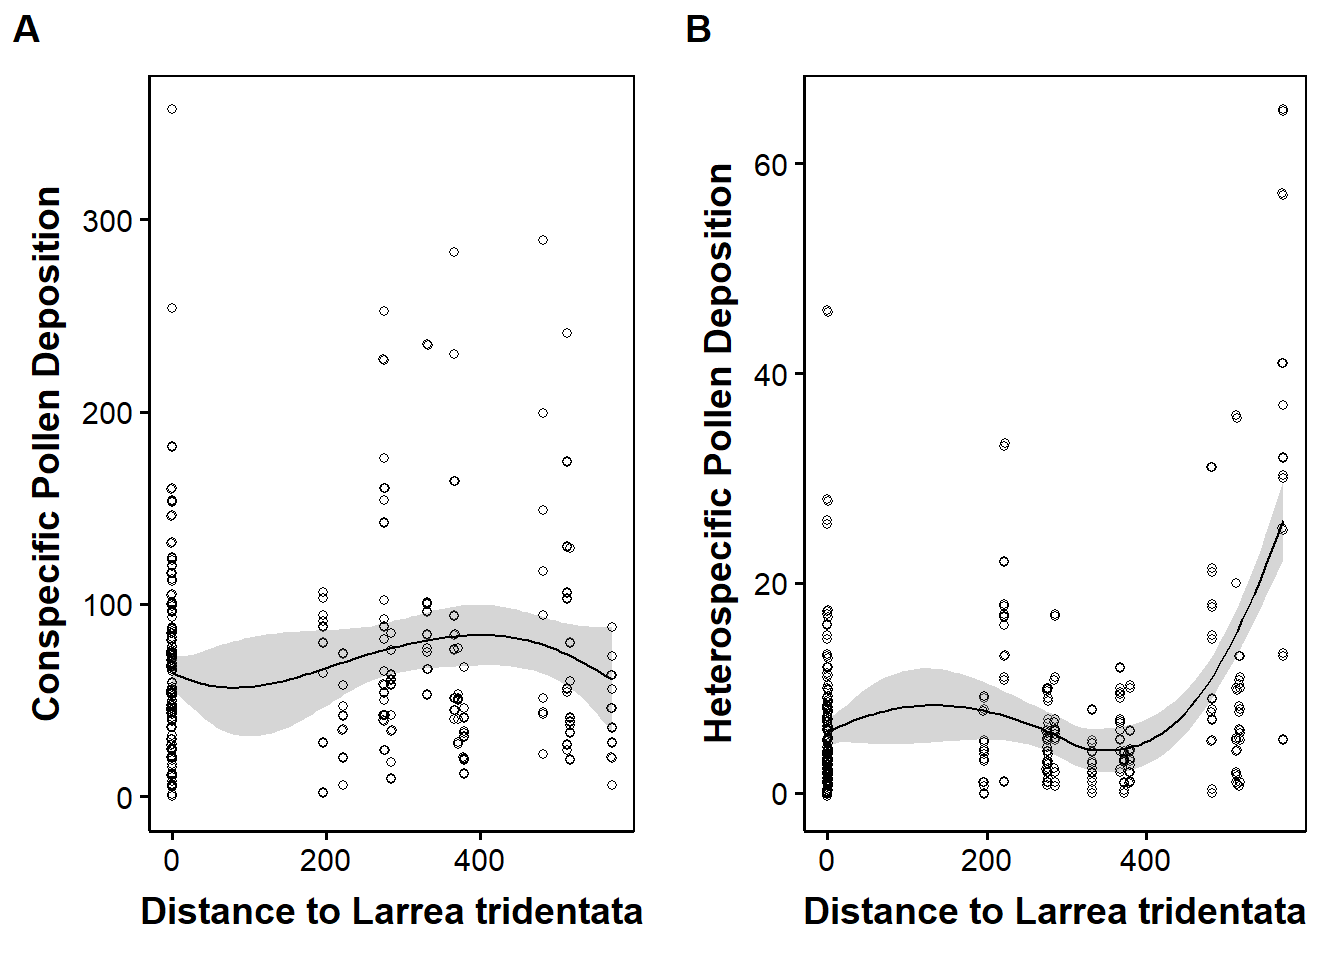
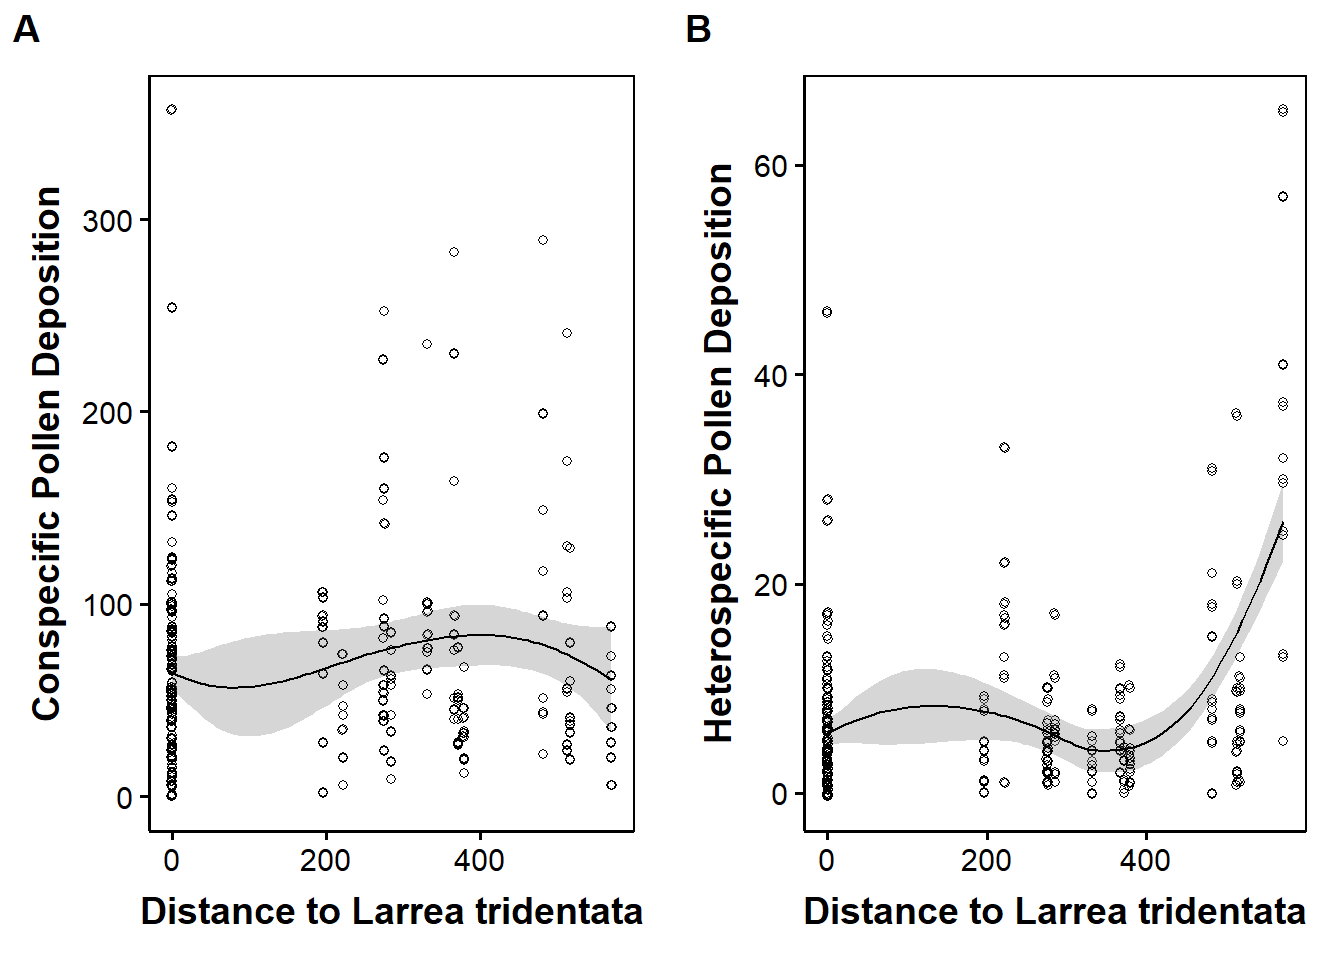
reknit stats

diff --git a/index.html b/index.html
@@ -1660,7 +1660,7 @@ mFullPQ &lt;- MASS::glmmPQL(total.visits~flowering * rtu * treatment + flowers.p
 ## flowering:rtu                  67.1419  5  4.026e-13 ***
 ## ---
 ## Signif. codes:  0 &#39;***&#39; 0.001 &#39;**&#39; 0.01 &#39;*&#39; 0.05 &#39;.&#39; 0.1 &#39; &#39; 1</code></pre>
-<pre class="r"><code>mPt &lt;- MASS::glmmPQL(total.visits~ flowering * rtu +  flowering + flowers.pot + het.annual.floral.density + offset(log(dec.Length)), random = ~1|repID, family=&quot;quasipoisson&quot;, data = byrtu)</code></pre>
+<pre class="r"><code>mPt &lt;- MASS::glmmPQL(total.visits~ flowering * rtu +  treatment + flowers.pot + het.annual.floral.density + offset(log(dec.Length)), random = ~1|repID, family=&quot;quasipoisson&quot;, data = byrtu)</code></pre>
 <pre><code>## iteration 1</code></pre>
 <pre><code>## iteration 2</code></pre>
 <pre><code>## iteration 3</code></pre>
@@ -1680,56 +1680,59 @@ mFullPQ &lt;- MASS::glmmPQL(total.visits~flowering * rtu * treatment + flowers.p
 ## Random effects:
 ##  Formula: ~1 | repID
 ##         (Intercept) Residual
-## StdDev:   0.5154108 1.431395
+## StdDev:   0.4850369 1.447393
 ## 
 ## Variance function:
 ##  Structure: fixed weights
 ##  Formula: ~invwt 
-## Fixed effects: total.visits ~ flowering * rtu + flowering + flowers.pot + het.annual.floral.density +      offset(log(dec.Length)) 
+## Fixed effects: total.visits ~ flowering * rtu + treatment + flowers.pot + het.annual.floral.density +      offset(log(dec.Length)) 
 ##                                 Value Std.Error   DF   t-value p-value
-## (Intercept)                 -1.754374      0.31 1251 -5.640421  0.0000
-## floweringbloom              -1.622320      0.49 1251 -3.338926  0.0009
-## rtubombylid                 -0.251314      0.32 1251 -0.775084  0.4384
-## rtuhoneybee                 -2.197225      0.68 1251 -3.239789  0.0012
-## rtulep                      -3.113515      1.04 1251 -2.994742  0.0028
-## rtuother                     0.725937      0.26 1251  2.778710  0.0055
-## rtusyrphid                   1.986351      0.23 1251  8.685220  0.0000
-## flowers.pot                  0.053237      0.02 1251  2.427039  0.0154
-## het.annual.floral.density    0.036065      0.02 1251  2.235929  0.0255
-## floweringbloom:rtubombylid   1.254617      0.60 1251  2.084411  0.0373
-## floweringbloom:rtuhoneybee -22.705274  67240.22 1251 -0.000338  0.9997
-## floweringbloom:rtulep        3.660059      1.17 1251  3.117915  0.0019
-## floweringbloom:rtuother      1.510897      0.53 1251  2.873290  0.0041
-## floweringbloom:rtusyrphid   -1.439807      0.59 1251 -2.435786  0.0150
+## (Intercept)                 -1.588635      0.32 1251 -4.966677  0.0000
+## floweringbloom              -1.620187      0.49 1251 -3.297275  0.0010
+## rtubombylid                 -0.251314      0.33 1251 -0.766237  0.4437
+## rtuhoneybee                 -2.197225      0.69 1251 -3.202810  0.0014
+## rtulep                      -3.113515      1.05 1251 -2.960560  0.0031
+## rtuother                     0.725937      0.26 1251  2.746994  0.0061
+## rtusyrphid                   1.986351      0.23 1251  8.586087  0.0000
+## treatmentshrub              -0.314510      0.15  120 -2.147471  0.0338
+## flowers.pot                  0.052119      0.02 1251  2.386102  0.0172
+## het.annual.floral.density    0.035599      0.02 1251  2.231026  0.0259
+## floweringbloom:rtubombylid   1.254617      0.61 1251  2.060619  0.0395
+## floweringbloom:rtuhoneybee -22.688568  67450.81 1251 -0.000336  0.9997
+## floweringbloom:rtulep        3.660059      1.19 1251  3.082328  0.0021
+## floweringbloom:rtuother      1.510897      0.53 1251  2.840494  0.0046
+## floweringbloom:rtusyrphid   -1.439807      0.60 1251 -2.407984  0.0162
 ##  Correlation: 
 ##                            (Intr) flwrng rtbmby rthnyb rtulep rtuthr
-## floweringbloom             -0.268                                   
-## rtubombylid                -0.456  0.292                            
-## rtuhoneybee                -0.218  0.140  0.209                     
-## rtulep                     -0.142  0.091  0.136  0.065              
-## rtuother                   -0.566  0.362  0.543  0.260  0.169       
-## rtusyrphid                 -0.647  0.414  0.620  0.297  0.193  0.770
-## flowers.pot                -0.699 -0.061  0.000  0.000  0.000  0.000
-## het.annual.floral.density  -0.211  0.040  0.000  0.000  0.000  0.000
-## floweringbloom:rtubombylid  0.246 -0.801 -0.539 -0.113 -0.074 -0.293
+## floweringbloom             -0.265                                   
+## rtubombylid                -0.449  0.292                            
+## rtuhoneybee                -0.214  0.140  0.209                     
+## rtulep                     -0.140  0.091  0.136  0.065              
+## rtuother                   -0.557  0.362  0.543  0.260  0.169       
+## rtusyrphid                 -0.636  0.414  0.620  0.297  0.193  0.770
+## treatmentshrub             -0.222 -0.001  0.000  0.000  0.000  0.000
+## flowers.pot                -0.682 -0.059  0.000  0.000  0.000  0.000
+## het.annual.floral.density  -0.207  0.039  0.000  0.000  0.000  0.000
+## floweringbloom:rtubombylid  0.242 -0.801 -0.539 -0.113 -0.074 -0.293
 ## floweringbloom:rtuhoneybee  0.000  0.000  0.000  0.000  0.000  0.000
-## floweringbloom:rtulep       0.126 -0.411 -0.121 -0.058 -0.886 -0.150
-## floweringbloom:rtuother     0.281 -0.916 -0.270 -0.129 -0.084 -0.497
-## floweringbloom:rtusyrphid   0.250 -0.815 -0.240 -0.115 -0.075 -0.298
-##                            rtsyrp flwrs. ht.n.. flwrngblm:rtb
-## floweringbloom                                               
-## rtubombylid                                                  
-## rtuhoneybee                                                  
-## rtulep                                                       
-## rtuother                                                     
-## rtusyrphid                                                   
-## flowers.pot                 0.000                            
-## het.annual.floral.density   0.000  0.166                     
-## floweringbloom:rtubombylid -0.334  0.000  0.000              
-## floweringbloom:rtuhoneybee  0.000  0.000  0.000  0.000       
-## floweringbloom:rtulep      -0.171  0.000  0.000  0.331       
-## floweringbloom:rtuother    -0.382  0.000  0.000  0.740       
-## floweringbloom:rtusyrphid  -0.387  0.000  0.000  0.658       
+## floweringbloom:rtulep       0.124 -0.411 -0.121 -0.058 -0.886 -0.150
+## floweringbloom:rtuother     0.277 -0.917 -0.270 -0.129 -0.084 -0.497
+## floweringbloom:rtusyrphid   0.246 -0.815 -0.240 -0.115 -0.075 -0.298
+##                            rtsyrp trtmnt flwrs. ht.n.. flwrngblm:rtb
+## floweringbloom                                                      
+## rtubombylid                                                         
+## rtuhoneybee                                                         
+## rtulep                                                              
+## rtuother                                                            
+## rtusyrphid                                                          
+## treatmentshrub              0.000                                   
+## flowers.pot                 0.000  0.022                            
+## het.annual.floral.density   0.000  0.012  0.167                     
+## floweringbloom:rtubombylid -0.334  0.000  0.000  0.000              
+## floweringbloom:rtuhoneybee  0.000  0.000  0.000  0.000  0.000       
+## floweringbloom:rtulep      -0.171  0.000  0.000  0.000  0.331       
+## floweringbloom:rtuother    -0.382  0.000  0.000  0.000  0.740       
+## floweringbloom:rtusyrphid  -0.387  0.000  0.000  0.000  0.658       
 ##                            flwrngblm:rth flwrngblm:rtl flwrngblm:rtt
 ## floweringbloom                                                      
 ## rtubombylid                                                         
@@ -1737,6 +1740,7 @@ mFullPQ &lt;- MASS::glmmPQL(total.visits~flowering * rtu * treatment + flowers.p
 ## rtulep                                                              
 ## rtuother                                                            
 ## rtusyrphid                                                          
+## treatmentshrub                                                      
 ## flowers.pot                                                         
 ## het.annual.floral.density                                           
 ## floweringbloom:rtubombylid                                          
@@ -1746,8 +1750,8 @@ mFullPQ &lt;- MASS::glmmPQL(total.visits~flowering * rtu * treatment + flowers.p
 ## floweringbloom:rtusyrphid   0.000         0.337         0.753       
 ## 
 ## Standardized Within-Group Residuals:
-##         Min          Q1         Med          Q3         Max 
-## -2.08485613 -0.36838551 -0.22893229 -0.06441773 15.66049048 
+##        Min         Q1        Med         Q3        Max 
+## -2.0571160 -0.3624978 -0.2266572 -0.0598081 15.5262260 
 ## 
 ## Number of Observations: 1386
 ## Number of Groups: 122</code></pre>
@@ -1756,74 +1760,77 @@ mFullPQ &lt;- MASS::glmmPQL(total.visits~flowering * rtu * treatment + flowers.p
 ## 
 ## Response: total.visits
 ##                              Chisq Df Pr(&gt;Chisq)    
-## (Intercept)                32.1390  1  1.435e-08 ***
-## flowering                  11.2622  1   0.000791 ***
-## rtu                       216.4378  5  &lt; 2.2e-16 ***
-## flowers.pot                 5.9506  1   0.014712 *  
-## het.annual.floral.density   5.0504  1   0.024620 *  
-## flowering:rtu              67.6441  5  3.166e-13 ***
+## (Intercept)                24.9378  1  5.921e-07 ***
+## flowering                  10.9910  1  0.0009156 ***
+## rtu                       211.6795  5  &lt; 2.2e-16 ***
+## treatment                   4.6621  1  0.0308357 *  
+## flowers.pot                 5.7558  1  0.0164346 *  
+## het.annual.floral.density   5.0319  1  0.0248841 *  
+## flowering:rtu              66.1569  5  6.448e-13 ***
 ## ---
 ## Signif. codes:  0 &#39;***&#39; 0.001 &#39;**&#39; 0.01 &#39;*&#39; 0.05 &#39;.&#39; 0.1 &#39; &#39; 1</code></pre>
 <pre class="r"><code>lsmeans(mPt, pairwise~flowering|rtu)</code></pre>
 <pre><code>## $lsmeans
 ## rtu = bee:
 ##  flowering      lsmean           SE  df      lower.CL      upper.CL
-##  pre        -0.9048547 2.209981e-01 121 -1.342379e+00 -4.673306e-01
-##  bloom      -2.5271748 4.375210e-01 121 -3.393363e+00 -1.660987e+00
+##  pre        -0.9079822 2.229065e-01 120 -1.349322e+00 -4.666429e-01
+##  bloom      -2.5281696 4.422209e-01 120 -3.403736e+00 -1.652603e+00
 ## 
 ## rtu = bombylid:
 ##  flowering      lsmean           SE  df      lower.CL      upper.CL
-##  pre        -1.1561691 2.489613e-01 121 -1.649054e+00 -6.632845e-01
-##  bloom      -1.5238727 2.688019e-01 121 -2.056037e+00 -9.917084e-01
+##  pre        -1.1592967 2.512650e-01 120 -1.656784e+00 -6.618095e-01
+##  bloom      -1.5248674 2.713327e-01 120 -2.062087e+00 -9.876476e-01
 ## 
 ## rtu = honeybee:
 ##  flowering      lsmean           SE  df      lower.CL      upper.CL
-##  pre        -3.1020793 6.456038e-01 121 -4.380222e+00 -1.823936e+00
-##  bloom     -27.4296729 6.724022e+04 121 -1.331472e+05  1.330923e+05
+##  pre        -3.1052068 6.528378e-01 120 -4.397780e+00 -1.812633e+00
+##  bloom     -27.4139624 6.745081e+04 120 -1.335753e+05  1.335205e+05
 ## 
 ## rtu = lep:
 ##  flowering      lsmean           SE  df      lower.CL      upper.CL
-##  pre        -4.0183700 1.018697e+00 121 -6.035149e+00 -2.001591e+00
-##  bloom      -1.9806311 3.349596e-01 121 -2.643772e+00 -1.317490e+00
+##  pre        -4.0214975 1.030319e+00 120 -6.061458e+00 -1.981537e+00
+##  bloom      -1.9816259 3.383675e-01 120 -2.651570e+00 -1.311682e+00
 ## 
 ## rtu = other:
 ##  flowering      lsmean           SE  df      lower.CL      upper.CL
-##  pre        -0.1789177 1.584316e-01 121 -4.925748e-01  1.347394e-01
-##  bloom      -0.2903411 1.528278e-01 121 -5.929040e-01  1.222189e-02
+##  pre        -0.1820452 1.593623e-01 120 -4.975715e-01  1.334810e-01
+##  bloom      -0.2913358 1.535827e-01 120 -5.954189e-01  1.274719e-02
 ## 
 ## rtu = syrphid:
 ##  flowering      lsmean           SE  df      lower.CL      upper.CL
-##  pre         1.0814964 9.568193e-02 121  8.920688e-01  1.270924e+00
-##  bloom      -1.9806311 3.349596e-01 121 -2.643772e+00 -1.317490e+00
+##  pre         1.0783689 9.529154e-02 120  8.896983e-01  1.267039e+00
+##  bloom      -1.9816259 3.383675e-01 120 -2.651570e+00 -1.311682e+00
 ## 
+## Results are averaged over the levels of: treatment 
 ## Results are given on the log (not the response) scale. 
 ## Confidence level used: 0.95 
 ## 
 ## $contrasts
 ## rtu = bee:
 ##  contrast      estimate           SE   df t.ratio p.value
-##  pre - bloom  1.6223201 4.858809e-01 1251   3.339  0.0009
+##  pre - bloom  1.6201873 4.913716e-01 1251   3.297  0.0010
 ## 
 ## rtu = bombylid:
 ##  contrast      estimate           SE   df t.ratio p.value
-##  pre - bloom  0.3677035 3.606267e-01 1251   1.020  0.3081
+##  pre - bloom  0.3655708 3.646299e-01 1251   1.003  0.3163
 ## 
 ## rtu = honeybee:
 ##  contrast      estimate           SE   df t.ratio p.value
-##  pre - bloom 24.3275936 6.724022e+04 1251   0.000  0.9997
+##  pre - bloom 24.3087556 6.745081e+04 1251   0.000  0.9997
 ## 
 ## rtu = lep:
 ##  contrast      estimate           SE   df t.ratio p.value
-##  pre - bloom -2.0377390 1.070400e+00 1251  -1.904  0.0572
+##  pre - bloom -2.0398717 1.082705e+00 1251  -1.884  0.0598
 ## 
 ## rtu = other:
 ##  contrast      estimate           SE   df t.ratio p.value
-##  pre - bloom  0.1114233 2.104098e-01 1251   0.530  0.5965
+##  pre - bloom  0.1092906 2.125640e-01 1251   0.514  0.6072
 ## 
 ## rtu = syrphid:
 ##  contrast      estimate           SE   df t.ratio p.value
-##  pre - bloom  3.0621275 3.422986e-01 1251   8.946  &lt;.0001
+##  pre - bloom  3.0599947 3.460817e-01 1251   8.842  &lt;.0001
 ## 
+## Results are averaged over the levels of: treatment 
 ## Results are given on the log (not the response) scale.</code></pre>
 <pre class="r"><code>#full model flower visits
 mFullPQv &lt;- MASS::glmmPQL(total.flowers~flowering * rtu * treatment + flowers.pot + het.annual.floral.density + het.shrub.blooming.neighbours + offset(log(dec.Length)), random = ~1|repID, family=&quot;quasipoisson&quot;, data = byrtu)</code></pre>
